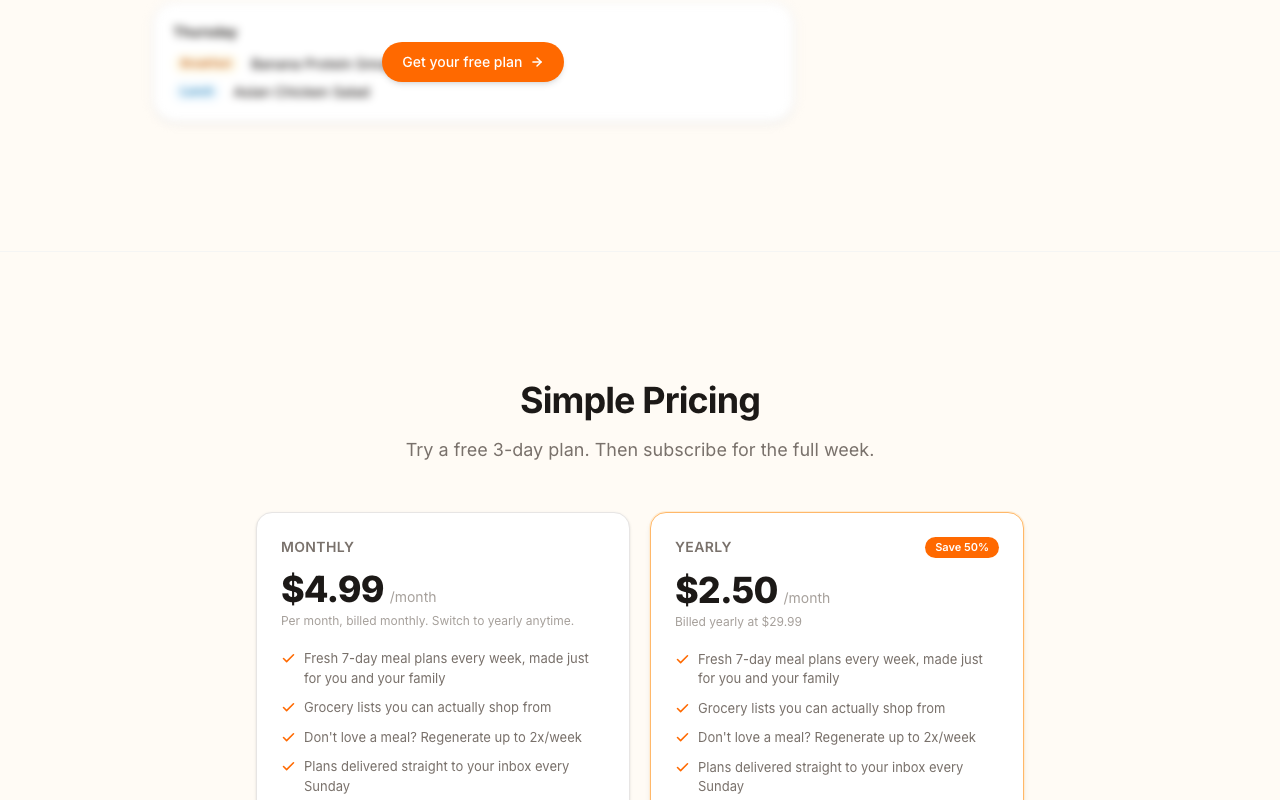
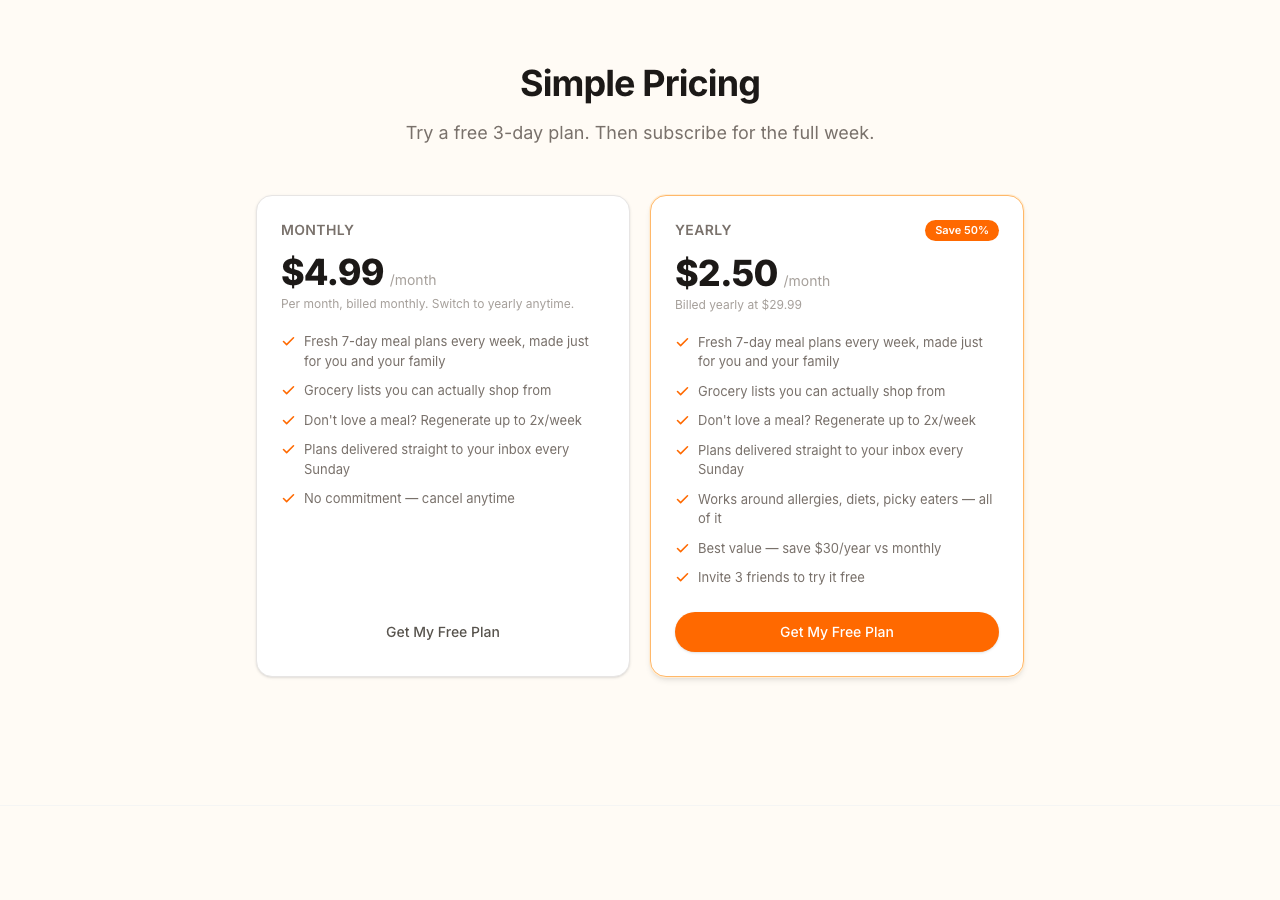
Retake README screenshots + add FAQ section
- Retake pricing screenshot (was getting cut off at bottom)
- Retake what-you-get screenshot (correct scroll position)
- Add FAQ section screenshot and README entry

diff --git a/README.md b/README.md
@@ -61,6 +61,14 @@ Both plans include a free 3-day trial, regeneration (up to 2x/week), and support
 
 ---
 
+## Questions & Answers
+
+7 FAQs covering how it works, customization, cancellation, and more.
+
+![FAQ](docs/screenshots/faq.png)
+
+---
+
 ## 140 SEO pages
 
 Programmatic SEO covering every meal planning search query:
